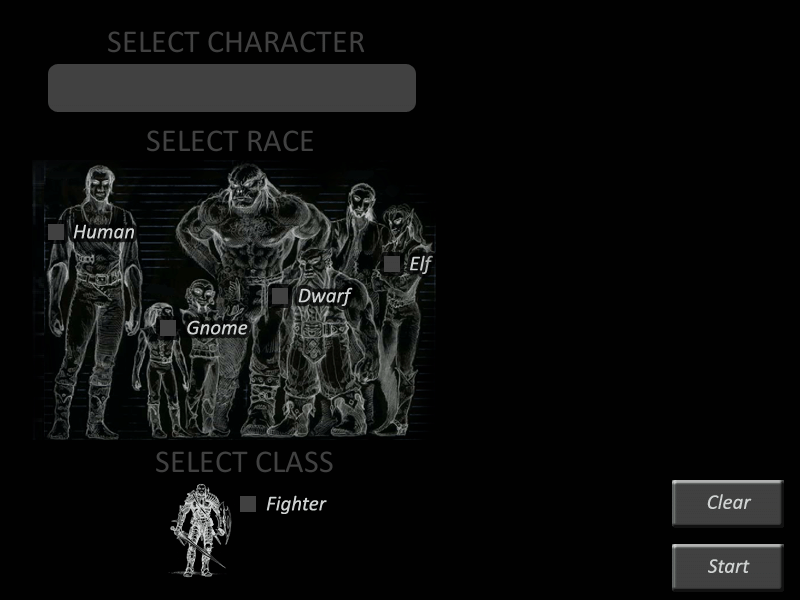
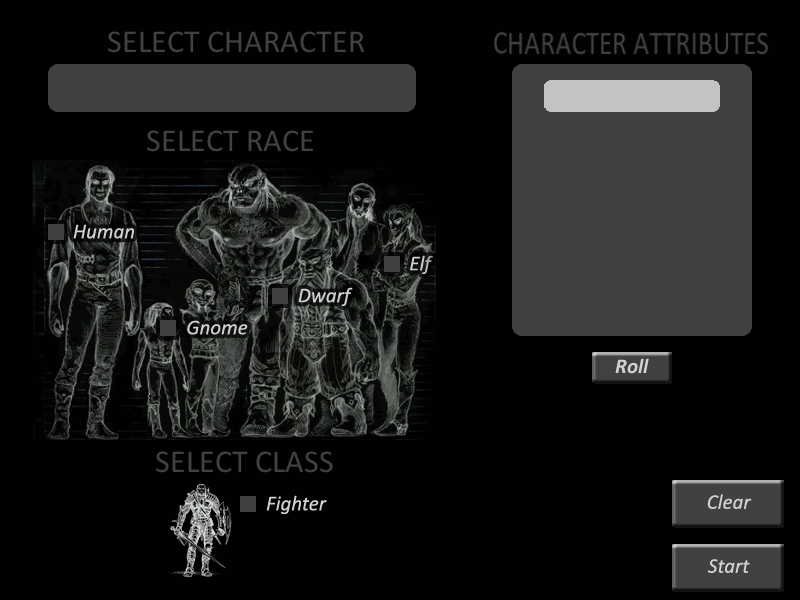
had to fix some compile time errors that i accidentally commited new screens with roll button and placemat for writing some new code for a roll button

Changed region(s): [[0.5938, 0.03, 0.9688, 0.66]]

diff --git a/Screens.h b/Screens.h
@@ -52,9 +52,12 @@ private:
 	GraphicsSelection availableSprites[NUM_CHARACTERS];
 	GraphicsSelection availableRaces[NUM_RACES];
 	GraphicsSelection availableClasses[NUM_CLASSES];
+	//which is selected, -1 means nothing selected
 	int selectedSprite; 
 	int selectedRace;
 	int selectedClass;
+	//if youve clicked the roll button or not
+	bool hasRolled;
 	Graphics *characterSprites;
 	SDL_Surface *highlightTile;
 	SDL_Surface *selectScreen;
